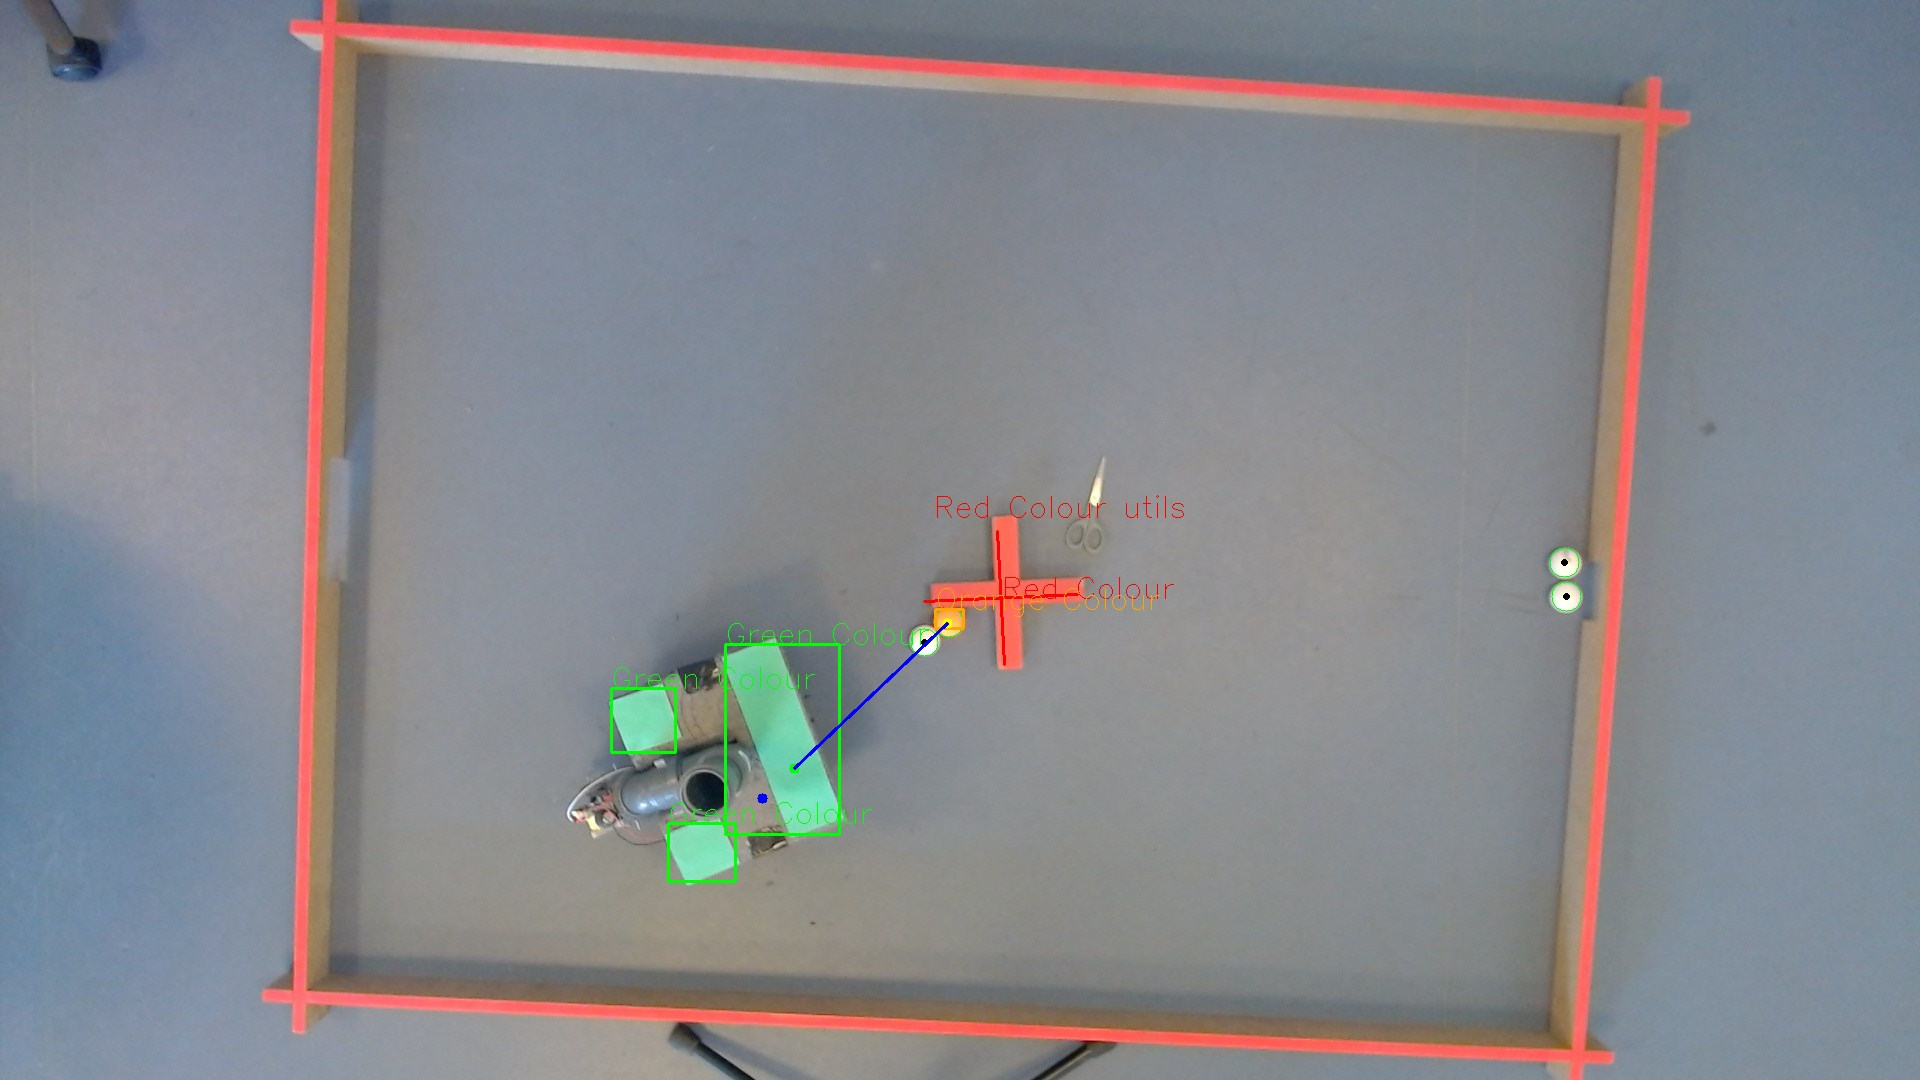
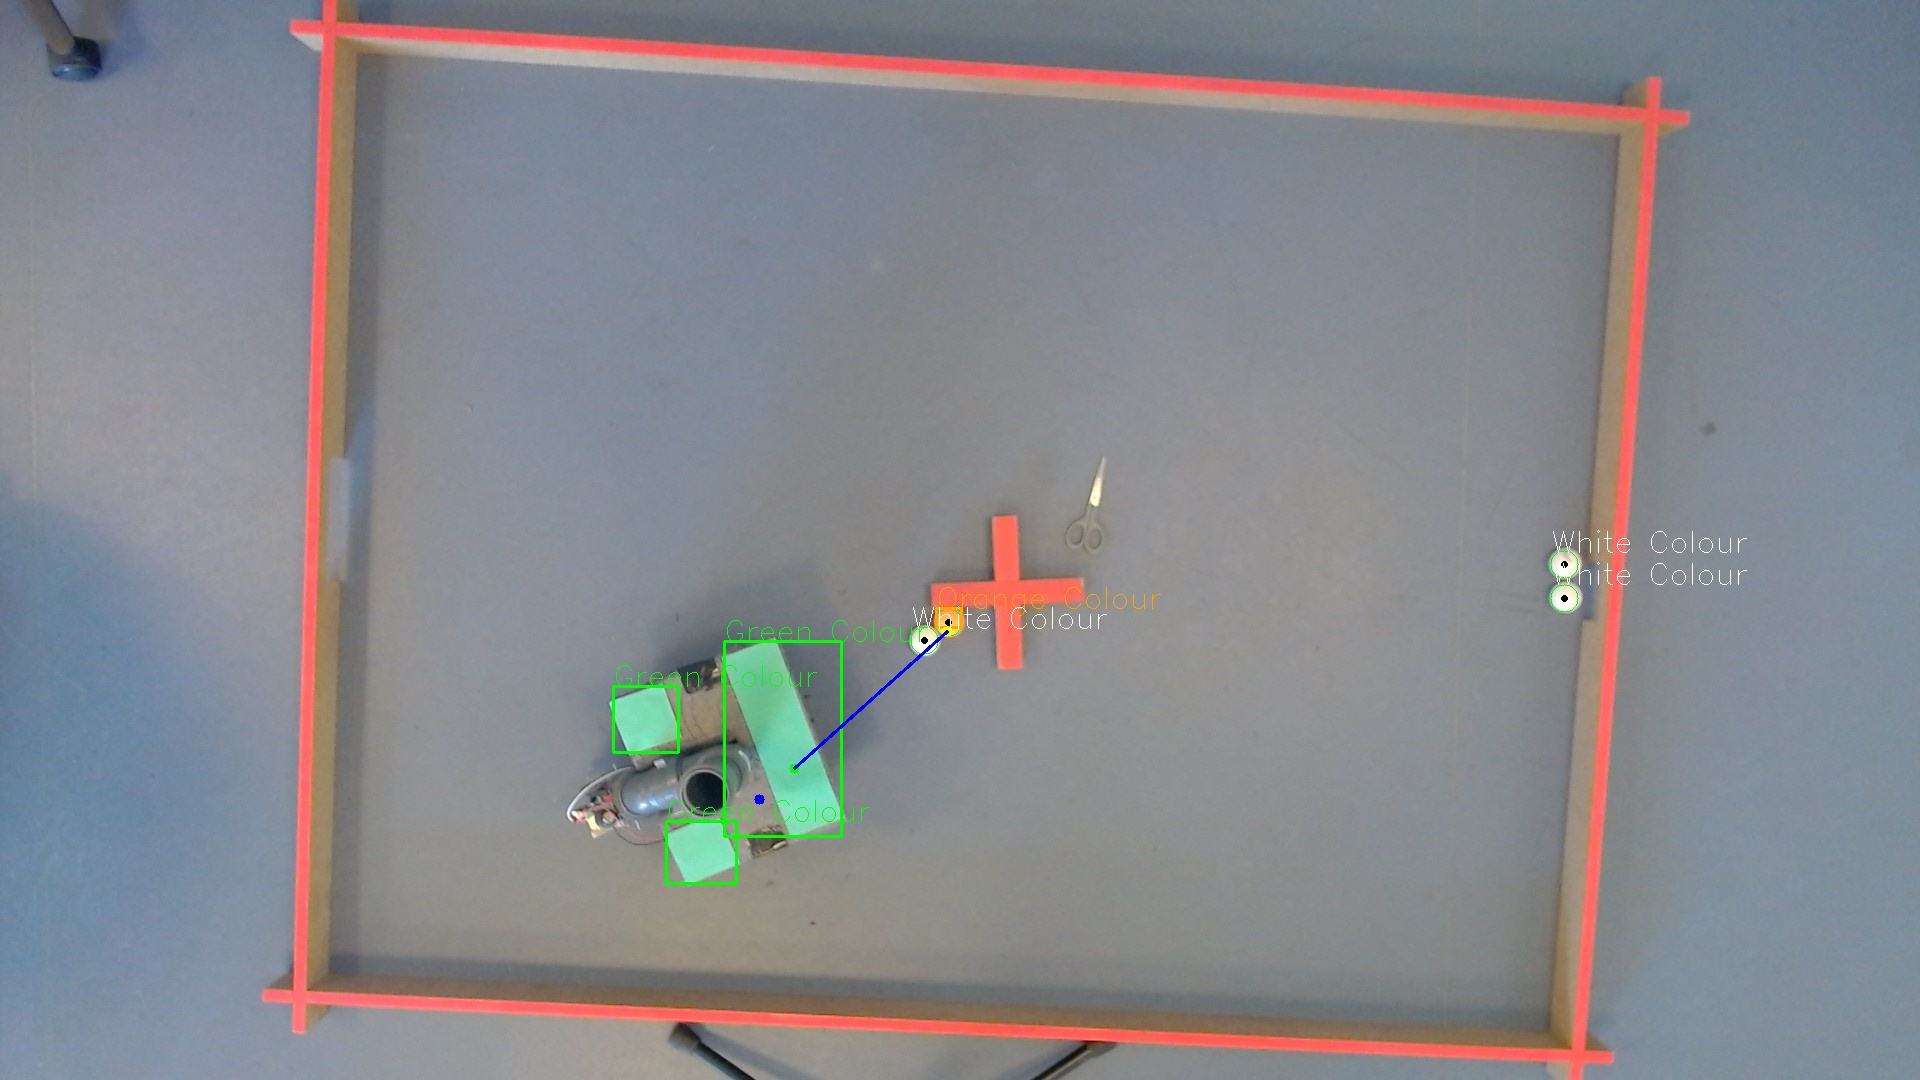
lab values instead of hsv

diff --git a/autocalibratecolors.py b/autocalibratecolors.py
@@ -4,91 +4,91 @@ import json
 
 # Initialize global variables
 clicked_points = []
-hsv_values_white = []
-hsv_values_orange = []
-hsv_values_red = []
-hsv_values_green = []
+lab_values_white = []
+lab_values_orange = []
+lab_values_red = []
+lab_values_green = []
+lab_values_led = []  # Added for LED calibration
 frame = None
 display_frame = None
 current_color = 'white'  # Start with white as the default color
 
 # Function to handle mouse clicks
 def click_event(event, x, y, flags, param):
-    global display_frame, current_color
+    global frame, display_frame, current_color
     if event == cv2.EVENT_LBUTTONDOWN:
-        hsv = cv2.cvtColor(frame, cv2.COLOR_BGR2HSV)
-        hsv_value = hsv[y, x]
+        lab = cv2.cvtColor(frame, cv2.COLOR_BGR2LAB)
+        lab_value = lab[y, x]
         clicked_points.append((x, y))
         
-        # Save the HSV value based on the current selected color
+        # Save the LAB value based on the current selected color
         if current_color == 'white':
-            hsv_values_white.append(hsv_value)
+            lab_values_white.append(lab_value.tolist())
         elif current_color == 'orange':
-            hsv_values_orange.append(hsv_value)
+            lab_values_orange.append(lab_value.tolist())
         elif current_color == 'red':
-            hsv_values_red.append(hsv_value)
+            lab_values_red.append(lab_value.tolist())
         elif current_color == 'green':
-            hsv_values_green.append(hsv_value)
+            lab_values_green.append(lab_value.tolist())
+        elif current_color == 'led':  # Added for LED calibration
+            lab_values_led.append(lab_value.tolist())
         
         display_frame = frame.copy()
         cv2.circle(display_frame, (x, y), 5, (255, 0, 0), -1)
         cv2.imshow('image', display_frame)
 
-# Function to calculate the min and max HSV values with buffer
-def calculate_hsv_range(hsv_values, buffer=15):
-    hsv_array = np.array(hsv_values)
-    min_h = max(hsv_array[:, 0].min() - buffer, 0)
-    max_h = min(hsv_array[:, 0].max() + buffer, 179)
-    min_s = max(hsv_array[:, 1].min() - buffer, 0)
-    max_s = min(hsv_array[:, 1].max() + buffer, 255)
-    min_v = max(hsv_array[:, 2].min() - buffer, 0)
-    max_v = min(hsv_array[:, 2].max() + buffer, 255)
-    return np.array([min_h, min_s, min_v]), np.array([max_h, max_s, max_v])
+# Function to calculate the average LAB values for lower and upper bounds
+def calculate_avg_lab_range(lab_values):
+    lab_array = np.array(lab_values)
+    avg_l = int(np.mean(lab_array[:, 0]))
+    avg_a = int(np.mean(lab_array[:, 1]))
+    avg_b = int(np.mean(lab_array[:, 2]))
+    return np.array([avg_l, avg_a, avg_b]), np.array([avg_l, avg_a, avg_b])
 
-# Function to save the HSV ranges to a JSON file
-def save_hsv_ranges(hsv_values_white, hsv_values_orange, hsv_values_red, hsv_values_green):
-    white_min, white_max = calculate_hsv_range(hsv_values_white)
-    orange_min, orange_max = calculate_hsv_range(hsv_values_orange)
-    red_min, red_max = calculate_hsv_range(hsv_values_red)
-    green_min, green_max = calculate_hsv_range(hsv_values_green)
+# Function to save the average LAB ranges to a JSON file
+def save_avg_lab_ranges():
+    white_avg = calculate_avg_lab_range(lab_values_white)
+    orange_avg = calculate_avg_lab_range(lab_values_orange)
+    red_avg = calculate_avg_lab_range(lab_values_red)
+    green_avg = calculate_avg_lab_range(lab_values_green)
+    led_avg = calculate_avg_lab_range(lab_values_led)  # Added for LED calibration
 
-    hsv_ranges = {
-        'white': {'lower': white_min.tolist(), 'upper': white_max.tolist()},
-        'orange': {'lower': orange_min.tolist(), 'upper': orange_max.tolist()},
-        'red': {'lower': red_min.tolist(), 'upper': red_max.tolist()},
-        'green': {'lower': green_min.tolist(), 'upper': green_max.tolist()}
+    lab_ranges = {
+        'white': {'lower': white_avg[0].tolist(), 'upper': white_avg[1].tolist()},
+        'orange': {'lower': orange_avg[0].tolist(), 'upper': orange_avg[1].tolist()},
+        'red': {'lower': red_avg[0].tolist(), 'upper': red_avg[1].tolist()},
+        'green': {'lower': green_avg[0].tolist(), 'upper': green_avg[1].tolist()},
+        'led': {'lower': led_avg[0].tolist(), 'upper': led_avg[1].tolist()}  # Added for LED calibration
     }
-    with open('hsv_ranges.json', 'w') as file:
-        json.dump(hsv_ranges, file)
+    with open('avg_lab_ranges.json', 'w') as file:
+        json.dump(lab_ranges, file)
 
-# Function to load the HSV ranges from a JSON file
-def load_hsv_ranges(file_path):
+# Function to load the average LAB ranges from a JSON file
+def load_avg_lab_ranges(file_path):
     with open(file_path, 'r') as file:
-        hsv_ranges = json.load(file)
-    return hsv_ranges
+        lab_ranges = json.load(file)
+    return lab_ranges
 
-# Function to create an HSV mask using loaded HSV ranges
-def create_hsv_mask_from_ranges(hsv_ranges, color, frame):
-    min_hsv = np.array(hsv_ranges[color]['min'])
-    max_hsv = np.array(hsv_ranges[color]['max'])
-    hsv_frame = cv2.cvtColor(frame, cv2.COLOR_BGR2HSV)
-    mask = cv2.inRange(hsv_frame, min_hsv, max_hsv)
+# Function to create an LAB mask using loaded average LAB ranges
+def create_lab_mask_from_avg_ranges(lab_ranges, color, frame):
+    avg_lab = np.array(lab_ranges[color]['lower'])  # Both lower and upper are the same
+    lab_frame = cv2.cvtColor(frame, cv2.COLOR_BGR2LAB)
+    mask = cv2.inRange(lab_frame, avg_lab, avg_lab)
     kernel = np.ones((5, 5), np.uint8)
     mask_closed = cv2.morphologyEx(mask, cv2.MORPH_CLOSE, kernel)
     return mask_closed
 
 # Function to display the image and set up mouse callback
-def select_colors_and_create_mask(image):
+def select_colors_and_create_mask(image_path):
     global frame, display_frame, current_color
-    #frame = cv2.imread(image)
-    frame = image
+    frame = cv2.imread(image_path)
     display_frame = frame.copy()
     if frame is None:
-        raise ValueError(f"Image not found at path: {image}")
+        raise ValueError(f"Image not found at path: {image_path}")
     cv2.namedWindow('image')
     cv2.setMouseCallback('image', click_event)
 
-    colors = ['white', 'orange', 'red', 'green']
+    colors = ['white', 'orange', 'red', 'green', 'led']  # Added 'led' for LED calibration
     color_index = 0  # Start with the first color in the list
 
     while True:
@@ -105,6 +105,7 @@ def select_colors_and_create_mask(image):
             current_color = colors[color_index]
 
     cv2.destroyAllWindows()
+    save_avg_lab_ranges()
 
-    save_hsv_ranges(hsv_values_white, hsv_values_orange, hsv_values_red, hsv_values_green)
-
+# Example usage:
+# select_colors_and_create_mask('path_to_your_image.png')

diff --git a/picture/image_detection.py b/picture/image_detection.py
@@ -201,27 +201,38 @@ def detect_ball_colors(image):
     # BGR(RGB color space) to  
     # HSV(hue-saturation-value) 
     # color space 
-    hsvFrame = cv2.cvtColor(image, cv2.COLOR_BGR2HSV) 
+    labFrame = cv2.cvtColor(image, cv2.COLOR_BGR2LAB)
     
-    hsv_ranges = load_hsv_ranges('hsv_ranges.json')
+    lab_ranges = load_avg_lab_ranges('lab_ranges.json')
 
-# Assuming 'frame' is a new image you want to process
-    orange_lower = np.array(hsv_ranges['orange']['lower'])
-    orange_upper = np.array(hsv_ranges['orange']['upper'])
-    orange_mask = cv2.inRange(hsvFrame, orange_lower, orange_upper)
+    # Assuming 'frame' is a new image you want to process
+    # Create masks for each color using the LAB ranges
+    orange_lower = np.array(lab_ranges['orange']['lower'])
+    orange_upper = np.array(lab_ranges['orange']['upper'])
+    orange_mask = cv2.inRange(labFrame, orange_lower, orange_upper)
 
-    white_lower = np.array(hsv_ranges['white']['lower'])
-    white_upper = np.array(hsv_ranges['white']['upper'])
-    white_mask = cv2.inRange(hsvFrame, white_lower, white_upper)
+    white_lower = np.array(lab_ranges['white']['lower'])
+    white_upper = np.array(lab_ranges['white']['upper'])
+    white_mask = cv2.inRange(labFrame, white_lower, white_upper)
 
-    green_lower = np.array(hsv_ranges['green']['lower'])
-    green_upper = np.array(hsv_ranges['green']['upper'])
-    green_mask = cv2.inRange(hsvFrame, green_lower, green_upper)
+    green_lower = np.array(lab_ranges['green']['lower'])
+    green_upper = np.array(lab_ranges['green']['upper'])
+    green_mask = cv2.inRange(labFrame, green_lower, green_upper)
 
-    red_lower = np.array(hsv_ranges['red']['lower'])
-    red_upper = np.array(hsv_ranges['red']['upper'])
-    red_mask = cv2.inRange(hsvFrame, red_lower, red_upper) 
-      
+    red_lower = np.array(lab_ranges['red']['lower'])
+    red_upper = np.array(lab_ranges['red']['upper'])
+    red_mask = cv2.inRange(labFrame, red_lower, red_upper)
+
+    led_lower = np.array(lab_ranges['led']['lower'])
+    led_upper = np.array(lab_ranges['led']['upper'])
+    led_mask = cv2.inRange(labFrame, led_lower, led_upper)
+
+    cv2.imshow('Orange Mask', orange_mask)
+    cv2.imshow('White Mask', white_mask)
+    cv2.imshow('Green Mask', green_mask)
+    cv2.imshow('Red Mask', red_mask)
+    cv2.imshow('LED', led_mask)
+
 
     orange_detected = []
     # point_in_orange_region = False
